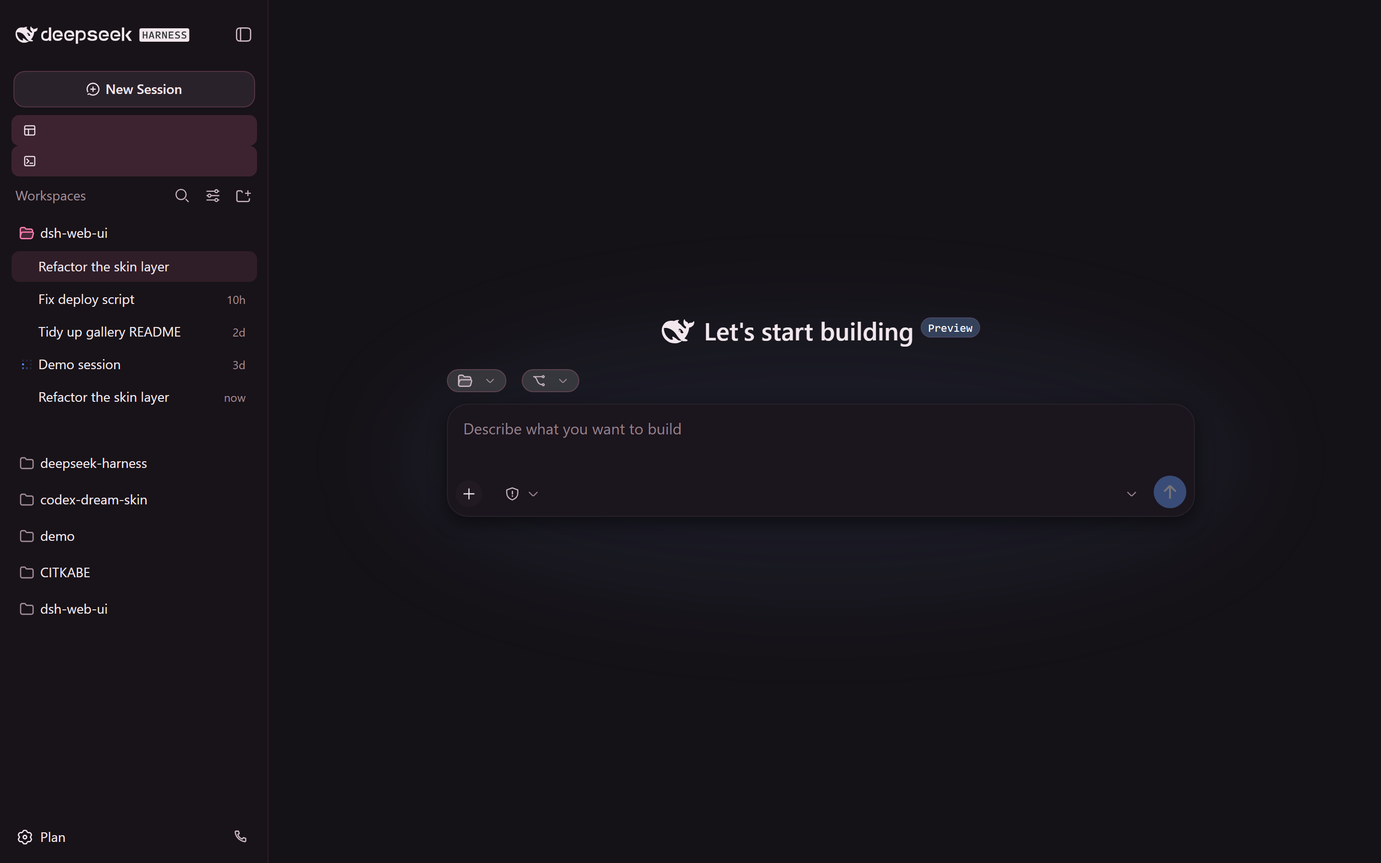
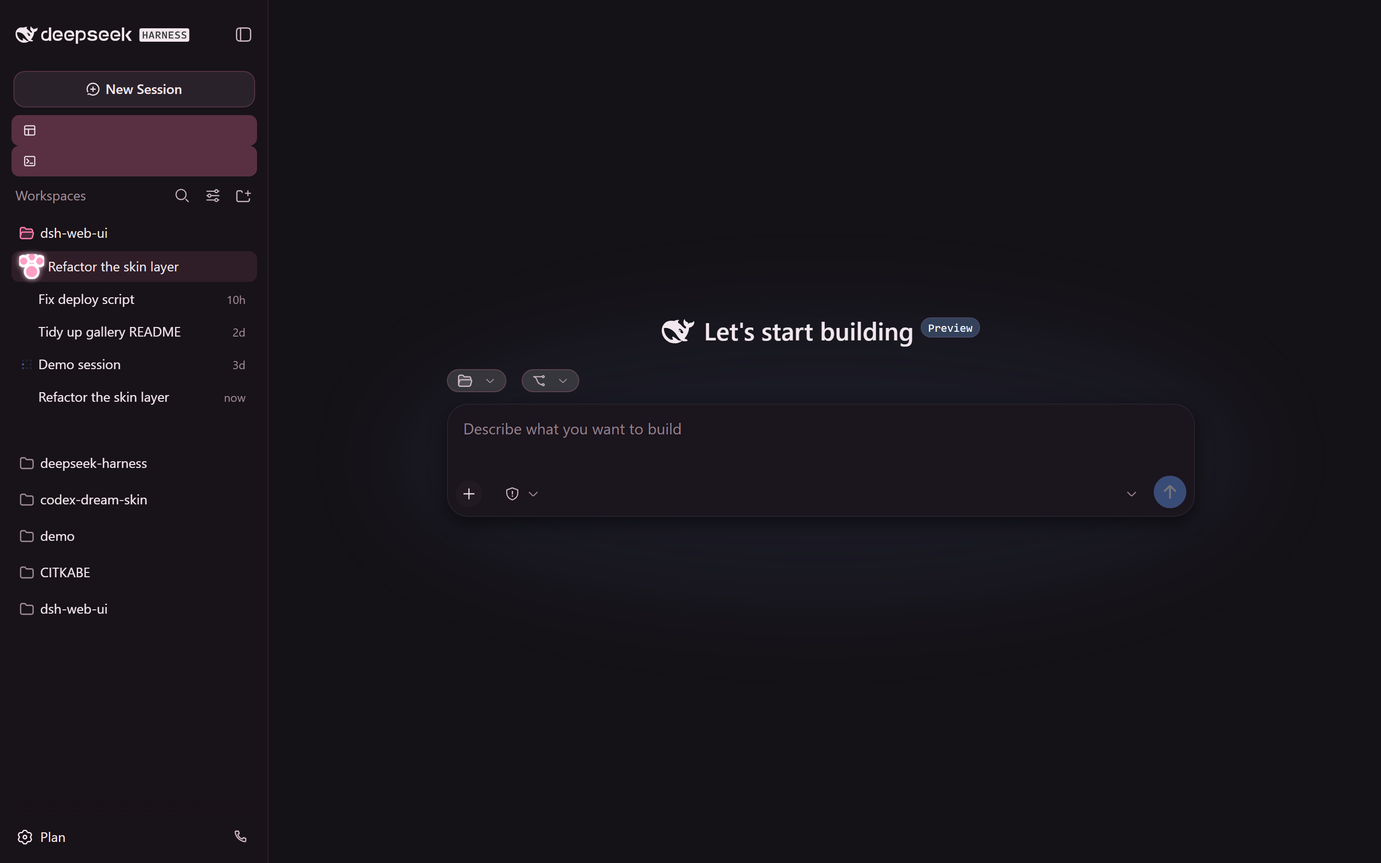
feat(skins): cat-paw selected marker for Pink Sakura sidebar rows
Selected sidebar workspace and session rows now carry an original
code-drawn paw marker (assets/paw.svg: pink fill, deep pink outline)
with a soft pink-white glow and a gentle heartbeat; static under
prefers-reduced-motion. A CSS-gradient paw sits beneath the url() so
the marker also renders where skin-dir assets are not served (the
static gallery preview embeds stylesheets inline). Stable selectors
only: data-pane=sidebar scope plus treeitem/aria-selected hooks, no
hashed class names.

Changed region(s): [[0.0, 0.1244, 0.1875, 0.2178], [0.0, 0.28, 0.125, 0.3422]]

diff --git a/gallery/styles.js b/gallery/styles.js
@@ -68,7 +68,7 @@ window.SKIN_STYLES = {
 		patches: "/**\n * Deep Current structural presentation.\n *\n * This L3 stylesheet intentionally stays small and uses structural data,\n * semantic data, and ARIA anchors only. It contains no CSS-module hash\n * selectors and no layout-changing rules.\n */\n\n[data-pane=\"conversation\"],\n[data-dsh-surface=\"conversation\"] {\n  background-color: var(--deep-current-pearl);\n  background-image:\n    radial-gradient(ellipse 48% 30% at 58% 57%, var(--deep-current-current-band) 0%, transparent 68%),\n    linear-gradient(118deg, transparent 20%, var(--deep-current-current-band) 47%, transparent 74%);\n  background-attachment: local;\n}\n\n[data-composer-seat] {\n  isolation: isolate;\n  position: relative;\n}\n\n[data-composer-seat]::before {\n  content: \"\";\n  z-index: 0;\n  pointer-events: none;\n  background-image: url(\"assets/contour-field.svg\");\n  background-repeat: repeat-x;\n  background-size: 1440px 810px;\n  background-position: 0 50%;\n  position: absolute;\n  inset: -145% -62% -135%;\n  -webkit-mask-image: radial-gradient(ellipse 78% 76% at 58% 53%, #000 0 58%, transparent 93%);\n  mask-image: radial-gradient(ellipse 78% 76% at 58% 53%, #000 0 58%, transparent 93%);\n}\n\n[data-composer-seat]::after {\n  content: \"\";\n  z-index: 0;\n  pointer-events: none;\n  background-image:\n    radial-gradient(ellipse 44% 19% at 66% 57%, color-mix(in srgb, var(--deep-current-blue) 18%, transparent), transparent 72%),\n    linear-gradient(104deg, transparent 18%, var(--deep-current-current-band) 42%, color-mix(in srgb, var(--deep-current-blue) 11%, transparent) 56%, transparent 78%);\n  background-repeat: no-repeat;\n  background-size: 140% 100%, 180% 100%;\n  background-position: -25% 50%, 115% 50%;\n  position: absolute;\n  inset: -110% -44% -105%;\n  -webkit-mask-image: radial-gradient(ellipse 72% 68% at 60% 54%, #000 0 46%, transparent 88%);\n  mask-image: radial-gradient(ellipse 72% 68% at 60% 54%, #000 0 46%, transparent 88%);\n}\n\n@keyframes deep-current-contour-flow {\n  to {\n    background-position: 1440px 50%;\n  }\n}\n\n@keyframes deep-current-glow-flow {\n  to {\n    background-position: 125% 50%, -85% 50%;\n  }\n}\n\n[data-phase=\"hero\"] [data-composer-seat]::before {\n  animation: deep-current-contour-flow 18s linear infinite;\n  will-change: background-position;\n}\n\n[data-phase=\"hero\"] [data-composer-seat]::after {\n  animation: deep-current-glow-flow 11s linear infinite;\n  will-change: background-position;\n}\n\n[data-composer-seat] > * {\n  z-index: 1;\n  position: relative;\n}\n\n[data-pane=\"sidebar\"],\n[data-dsh-surface=\"sidebar\"] {\n  --dsw-alias-bg-base: #0b2a33;\n  --dsw-alias-bg-layer-1: #103640;\n  --dsw-alias-bg-layer-2: #143f49;\n  --dsw-alias-bg-layer-3: #194a54;\n  --dsw-alias-bg-overlay: #103640f5;\n  --dsw-alias-border-l1: #d8f5ee1a;\n  --dsw-alias-border-l2: #d8f5ee29;\n  --dsw-alias-border-l3: #d8f5ee42;\n  --dsw-alias-label-primary: #edf9f6;\n  --dsw-alias-label-primary-bluish: #d7f8ed;\n  --dsw-alias-label-secondary: #bdd8d2;\n  --dsw-alias-label-tertiary: #8cafaa;\n  --dsw-alias-label-dimmed: #6d938d;\n  --dsw-alias-label-caption: #5d837d;\n  --dsw-alias-label-primary-inverted: #0b2a33;\n  --dsw-alias-brand-primary: #63e6be;\n  --dsw-alias-brand-text: #baf7e3;\n  --dsw-alias-interactive-bg-hover: #ffffff0f;\n  --dsw-alias-interactive-bg-active: #63e6be24;\n  --dsw-alias-interactive-bg-hover-solid: #194a54;\n  --dsw-alias-button-elevated-fill: #143f49;\n  --dsw-alias-button-floating-fill: #103640;\n  --dsw-alias-button-floating-hover: #194a54;\n  --dsw-alias-button-info-fill: #143f49;\n  --dsw-alias-button-info-hover: #194a54;\n  --dsw-specific-sidebar-fill: #0b2a33;\n  --dsw-specific-sidebar-nav-item-active: #63e6be24;\n  --dsw-specific-sidebar-nav-item-active-accent: #63e6be;\n  --dsw-specific-sidebar-nav-item-hover: #ffffff0f;\n  color: #edf9f6;\n  background-color: #0b2a33;\n  border-inline-end: 1px solid #d8f5ee1f;\n}\n\n[data-pane=\"sidebar\"] > div {\n  background:\n    radial-gradient(circle at 28px 18%, #63e6be12, transparent 32%),\n    linear-gradient(180deg, #0b2a33 0%, #08242c 100%);\n}\n\nbody[data-ds-dark-theme] [data-pane=\"sidebar\"],\nbody[data-ds-dark-theme] [data-dsh-surface=\"sidebar\"] {\n  --dsw-alias-bg-base: #061820;\n  --dsw-alias-bg-layer-1: #0a222b;\n  --dsw-alias-bg-layer-2: #0e2b35;\n  --dsw-alias-bg-layer-3: #123641;\n  --dsw-alias-label-primary-inverted: #061820;\n  --dsw-specific-sidebar-fill: #061820;\n  background-color: #061820;\n}\n\nbody[data-ds-dark-theme] [data-pane=\"sidebar\"] > div {\n  background:\n    radial-gradient(circle at 28px 18%, #63e6be0f, transparent 34%),\n    linear-gradient(180deg, #061820 0%, #041219 100%);\n}\n\nbody[data-ds-dark-theme] [data-composer-seat]::before {\n  opacity: 0.9;\n  filter: brightness(1.3) saturate(1.12);\n}\n\n/*\n * The official settings dialog portals through the sidebar subtree. Restore\n * the main surface tokens at its semantic boundary so the dark sidebar's\n * light labels never leak onto pearl controls.\n */\n[data-dsh-surface=\"settings\"] {\n  --dsw-alias-bg-base: #f4f8f7;\n  --dsw-alias-bg-layer-1: #fff;\n  --dsw-alias-bg-layer-2: #eaf2f0;\n  --dsw-alias-bg-layer-3: #ddece9;\n  --dsw-alias-bg-overlay: #fffffff2;\n  --dsw-alias-border-l1: #0b2a3314;\n  --dsw-alias-border-l2: #0b2a3329;\n  --dsw-alias-border-l3: #0b2a3340;\n  --dsw-alias-label-primary: #123139;\n  --dsw-alias-label-primary-bluish: #234f77;\n  --dsw-alias-label-secondary: #3e5b61;\n  --dsw-alias-label-tertiary: #6f898a;\n  --dsw-alias-label-dimmed: #91a7a5;\n  --dsw-alias-label-caption: #9eb2af;\n  --dsw-alias-brand-primary: #2d6cdf;\n  --dsw-alias-brand-text: #2058bd;\n  --dsw-alias-interactive-bg-hover: #2d6cdf12;\n  --dsw-alias-interactive-bg-active: #2d6cdf21;\n  --dsw-alias-interactive-bg-hover-solid: #e1eeeb;\n  --dsw-alias-button-elevated-fill: #fff;\n  --dsw-alias-button-floating-fill: #fff;\n  --dsw-alias-button-floating-hover: #edf5f3;\n  --dsw-alias-button-info-fill: #e2ecff;\n  --dsw-alias-button-info-hover: #d5e3ff;\n  color: #123139;\n}\n\nbody[data-ds-dark-theme] [data-dsh-surface=\"settings\"] {\n  --dsw-alias-bg-base: #071a21;\n  --dsw-alias-bg-layer-1: #0c2731;\n  --dsw-alias-bg-layer-2: #123641;\n  --dsw-alias-bg-layer-3: #194650;\n  --dsw-alias-bg-overlay: #0c2731f2;\n  --dsw-alias-border-l1: #bdece31a;\n  --dsw-alias-border-l2: #bdece32e;\n  --dsw-alias-border-l3: #bdece347;\n  --dsw-alias-label-primary: #e9f7f4;\n  --dsw-alias-label-primary-bluish: #cadcff;\n  --dsw-alias-label-secondary: #b3cfca;\n  --dsw-alias-label-tertiary: #7fa49e;\n  --dsw-alias-label-dimmed: #5f8881;\n  --dsw-alias-label-caption: #4f766f;\n  --dsw-alias-brand-primary: #72a2ff;\n  --dsw-alias-brand-text: #bdd1ff;\n  --dsw-alias-interactive-bg-hover: #72a2ff17;\n  --dsw-alias-interactive-bg-active: #72a2ff2b;\n  --dsw-alias-interactive-bg-hover-solid: #194650;\n  --dsw-alias-button-elevated-fill: #123641;\n  --dsw-alias-button-floating-fill: #0c2731;\n  --dsw-alias-button-floating-hover: #194650;\n  --dsw-alias-button-info-fill: #173e5e;\n  --dsw-alias-button-info-hover: #1c4b70;\n  color: #e9f7f4;\n}\n\n[data-pane=\"sidebar\"] :is([aria-selected=\"true\"], [aria-current=\"true\"]):not([data-dsh-surface=\"settings\"] *) {\n  color: #dffff5;\n  background-color: #63e6be24;\n  box-shadow: inset 3px 0 #63e6be;\n}\n\n[data-pane=\"sidebar\"] :is([role=\"treeitem\"], button, a):not([data-dsh-surface=\"settings\"] *):focus-visible,\n[data-dsh-part=\"sidebar-entry\"]:focus-visible {\n  outline: 2px solid #63e6be;\n  outline-offset: 2px;\n}\n\n[data-composer-card=\"true\"],\n[data-dsh-surface=\"composer\"] {\n  background: var(--deep-current-composer);\n  border: 1px solid color-mix(in srgb, var(--deep-current-blue) 20%, var(--deep-current-sea-glass));\n  box-shadow: var(--dsw-shadow-lv2);\n  transition: border-color 160ms ease, box-shadow 160ms ease;\n}\n\n[data-composer-card=\"true\"]:focus-within,\n[data-dsh-surface=\"composer\"]:focus-within {\n  border-color: var(--deep-current-blue);\n  box-shadow: 0 0 0 3px color-mix(in srgb, var(--deep-current-blue) 18%, transparent), var(--dsw-shadow-lv2);\n}\n\ntextarea[data-phase],\n[data-dsh-part=\"composer-input\"] {\n  color: var(--dsw-alias-label-primary);\n  caret-color: var(--deep-current-blue);\n}\n\ntextarea[data-phase]::placeholder {\n  color: var(--dsw-alias-label-dimmed);\n}\n\n[data-dsh-surface=\"session-header\"],\n[data-dsh-part=\"header\"] {\n  font-family: var(--deep-current-display-font);\n  letter-spacing: 0.012em;\n}\n\n[data-dsh-part=\"column\"],\n[data-dsh-part=\"detail\"],\n[data-dsh-part=\"host-table\"],\n[data-dsh-part=\"dialog\"],\n[data-dsh-part=\"plugin-item\"],\n[data-dsh-part=\"marketplace-card\"] {\n  border-color: var(--dsw-alias-border-l2);\n  box-shadow: var(--dsw-shadow-lv1);\n}\n\n@media (max-width: 768px) {\n  [data-pane=\"conversation\"],\n  [data-dsh-surface=\"conversation\"] {\n    background-image:\n      radial-gradient(ellipse 70% 28% at 55% 70%, var(--deep-current-current-band) 0%, transparent 72%);\n  }\n\n  [data-composer-seat]::before {\n    opacity: 0.58;\n    background-size: 1080px 608px;\n    inset: -92% -52% -82%;\n  }\n\n  [data-composer-seat]::after {\n    display: none;\n  }\n\n  [data-phase=\"hero\"] [data-composer-seat]::before {\n    animation-duration: 14s;\n  }\n\n  [data-composer-card=\"true\"],\n  [data-dsh-surface=\"composer\"] {\n    box-shadow: var(--dsw-shadow-lv1-blur);\n  }\n}\n\n@media (prefers-contrast: more) {\n  [data-composer-card=\"true\"],\n  [data-dsh-surface=\"composer\"] {\n    border-color: var(--dsw-alias-label-primary);\n  }\n\n  [data-pane=\"sidebar\"],\n  [data-dsh-surface=\"sidebar\"] {\n    border-inline-end-color: #edf9f66b;\n  }\n}\n\n@media (prefers-reduced-motion: reduce) {\n  [data-phase=\"hero\"] [data-composer-seat]::before,\n  [data-phase=\"hero\"] [data-composer-seat]::after {\n    animation: none;\n    will-change: auto;\n  }\n\n  [data-composer-card=\"true\"],\n  [data-dsh-surface=\"composer\"] {\n    transition: none;\n  }\n}\n",
 	},
 	"pink-sakura": {
-		stylesheet: "/**\n * Pink Sakura - token-first v2 skin.\n *\n * L1 remaps official semantic tokens. L2 selectors only use semantic\n * attributes owned by Skin Center, avoiding generated class names.\n */\n\n/* Light tokens ride both :root and a body-scoped light head: the skin-center\n * loader clones :root theme tokens onto body, but the static gallery preview\n * (gallery/preview.html) injects this stylesheet without that transform, and\n * the official facade defines its light token sheet on body. */\n:root,\nbody:not([data-ds-dark-theme]) {\n  --pink-sakura-accent: #e95c91;\n  --pink-sakura-text: #3b2e36;\n  --pink-sakura-panel: #fff7fa;\n  --pink-sakura-border: #be6e9638;\n\n  --dsw-alias-bg-base: #fff1f6;\n  --dsw-alias-bg-layer-1: #fff8fb;\n  --dsw-alias-bg-layer-2: #fcebf2;\n  --dsw-alias-bg-layer-3: #f6dfe9;\n  --dsw-alias-bg-overlay: #fffffff0;\n  --dsw-alias-bg-skeleton: #e95c9112;\n  --dsw-alias-border-l1: #3c192d0f;\n  --dsw-alias-border-l2: #be6e9638;\n  --dsw-alias-border-l3: #be6e964d;\n  --dsw-alias-border-l4: #be6e9661;\n  --dsw-alias-label-primary: #3b2e36;\n  --dsw-alias-label-secondary: #6e5b65;\n  --dsw-alias-label-tertiary: #7c6a74;\n  --dsw-alias-label-dimmed: #9f8c96;\n  --dsw-alias-label-caption: #8a7680;\n  --dsw-alias-brand-primary: #e95c91;\n  --dsw-alias-brand-text: #c23e6f;\n  --dsw-alias-interactive-bg-hover: #e95c9112;\n  --dsw-alias-interactive-bg-active: #e95c9129;\n  --dsw-alias-state-error-primary: #c92a2a;\n  --dsw-alias-state-warn-primary: #8f5c10;\n  --dsw-alias-state-success-primary: #157a52;\n  --dsw-alias-state-business-primary: #c23e6f;\n  --dsw-alias-button-primary-fill: #e95c91;\n  --dsw-alias-button-primary-hover: #d64b80;\n  --dsw-alias-button-contrast-fill: #3b2a35;\n  --dsw-alias-button-elevated-fill: #fff7fa;\n  --dsw-alias-button-floating-fill: #f9e7ef;\n  --dsw-alias-button-floating-hover: #f4dce7;\n  --dsw-specific-bubble: #fff7fa;\n  --dsw-specific-input-major: #fff9fb;\n  --dsw-specific-menu: #fff8fb;\n  --dsw-specific-selector: #fae9f1;\n  --dsw-specific-sidebar-fill: #f8e4ed;\n  --dsw-specific-sidebar-nav-item-hover: #e95c9126;\n  --dsw-specific-sidebar-nav-item-active: #e95c9138;\n  --dsw-specific-sidebar-nav-item-active-accent: #e95c91;\n  --dsw-alias-tooltip-bg: #4a3944;\n  --dsw-shadow-lv1: 0 1px 2px #3b2e3614;\n  --dsw-shadow-lv2: 0 6px 18px #8d496c1f;\n  --dsw-shadow-lv3: 0 18px 42px #8d496c2b;\n  --dsw-alias-scrollbar-bg-l2: #b4789138;\n  --dsw-alias-scrollbar-hover-l2: #b478915c;\n}\n\nbody[data-ds-dark-theme] {\n  --pink-sakura-accent: #ff7fae;\n  --pink-sakura-text: #f2e7ed;\n  --pink-sakura-panel: #1d181e;\n  --pink-sakura-border: #ff7fae33;\n\n  --dsw-alias-bg-base: #151217;\n  --dsw-alias-bg-layer-1: #1d181e;\n  --dsw-alias-bg-layer-2: #221b23;\n  --dsw-alias-bg-layer-3: #2a222b;\n  --dsw-alias-bg-overlay: #2e2530f2;\n  --dsw-alias-bg-skeleton: #ff7fae12;\n  --dsw-alias-border-l1: #ff7fae1a;\n  --dsw-alias-border-l2: #ff7fae33;\n  --dsw-alias-border-l3: #ff7fae47;\n  --dsw-alias-border-l4: #ff7fae5c;\n  --dsw-alias-label-primary: #f2e7ed;\n  --dsw-alias-label-secondary: #c9b6c1;\n  --dsw-alias-label-tertiary: #a18e9a;\n  --dsw-alias-label-dimmed: #806d77;\n  --dsw-alias-label-caption: #95818d;\n  --dsw-alias-brand-primary: #ff7fae;\n  --dsw-alias-brand-text: #ff9bc0;\n  --dsw-alias-interactive-bg-hover: #ff7fae1a;\n  --dsw-alias-interactive-bg-active: #ff7fae38;\n  --dsw-alias-state-error-primary: #f2616c;\n  --dsw-alias-state-warn-primary: #f5a83b;\n  --dsw-alias-state-success-primary: #3fbf8f;\n  --dsw-alias-state-business-primary: #ff7fae;\n  --dsw-alias-button-primary-fill: #ff4f91;\n  --dsw-alias-button-primary-hover: #ff7fae;\n  --dsw-alias-button-contrast-fill: #f5ecf1;\n  --dsw-alias-button-elevated-fill: #2a222b;\n  --dsw-alias-button-floating-fill: #2a222b;\n  --dsw-alias-button-floating-hover: #332936;\n  --dsw-specific-bubble: #1e171f;\n  --dsw-specific-input-major: #1b151d;\n  --dsw-specific-menu: #251e27;\n  --dsw-specific-selector: #211a23;\n  --dsw-specific-sidebar-fill: #181318;\n  --dsw-specific-sidebar-nav-item-hover: #ff7fae2e;\n  --dsw-specific-sidebar-nav-item-active: #ff7fae47;\n  --dsw-specific-sidebar-nav-item-active-accent: #ff7fae;\n  --dsw-alias-tooltip-bg: #332a36;\n  --dsw-shadow-lv1: 0 1px 2px #00000066;\n  --dsw-shadow-lv2: 0 6px 18px #00000080;\n  --dsw-shadow-lv3: 0 18px 42px #00000099;\n  --dsw-alias-scrollbar-bg-l2: #ff7fae38;\n  --dsw-alias-scrollbar-hover-l2: #ff7fae66;\n}\n\n/* Translucent glass state, only while a backdrop is visible (Wallpaper Engine\n * wallpaper via data-dsh-wallpaper-active, or any backdrop source via the\n * unified data-dsh-backdrop-active marker: manual backgrounds included).\n * Opaque by default; the glass treatment below rides on these tokens. */\nbody:is([data-dsh-backdrop-active], [data-dsh-wallpaper-active]) {\n  --dsw-alias-bg-base: #faf4f78a;\n  --dsw-alias-bg-layer-1: #fffafcb8;\n  --dsw-alias-bg-layer-2: #fdf1f6ad;\n  --dsw-alias-bg-layer-3: #f7e7efa3;\n  --dsw-specific-sidebar-fill: #f4e9efb3;\n}\n\nbody[data-ds-dark-theme]:is([data-dsh-backdrop-active], [data-dsh-wallpaper-active]) {\n  --dsw-alias-bg-base: #1512178f;\n  --dsw-alias-bg-layer-1: #1d181ebd;\n  --dsw-alias-bg-layer-2: #221b23b3;\n  --dsw-alias-bg-layer-3: #2a222bad;\n  --dsw-specific-sidebar-fill: #181318bd;\n}\n\n/* Frosted-glass surfaces while a backdrop is visible: frosted blur with a\n * saturated lift, inner top highlight, hairline ring. Surfaces stay fully\n * opaque and flat when no backdrop is active (the restrained default). */\nbody:is([data-dsh-backdrop-active], [data-dsh-wallpaper-active]) [data-dsh-surface=\"composer\"],\nbody:is([data-dsh-backdrop-active], [data-dsh-wallpaper-active]) [data-dsh-surface=\"settings\"],\nbody:is([data-dsh-backdrop-active], [data-dsh-wallpaper-active]) [data-dsh-part=\"dialog\"],\nbody:is([data-dsh-backdrop-active], [data-dsh-wallpaper-active]) [data-dsh-part=\"panel\"],\nbody:is([data-dsh-backdrop-active], [data-dsh-wallpaper-active]) [data-dsh-plugin=\"pet\"] [data-dsh-part=\"bubble\"] {\n  -webkit-backdrop-filter: blur(22px) saturate(140%);\n  backdrop-filter: blur(22px) saturate(140%);\n  box-shadow:\n    inset 0 1px 0 rgba(255, 255, 255, 0.22),\n    inset 0 0 0 1px rgba(255, 255, 255, 0.06),\n    var(--dsw-shadow-lv2);\n  background-image: linear-gradient(180deg, rgba(255, 255, 255, 0.09) 0%, rgba(255, 255, 255, 0.02) 24%, rgba(255, 255, 255, 0) 48%);\n}\n\nbody[data-ds-dark-theme]:is([data-dsh-backdrop-active], [data-dsh-wallpaper-active]) [data-dsh-surface=\"composer\"],\nbody[data-ds-dark-theme]:is([data-dsh-backdrop-active], [data-dsh-wallpaper-active]) [data-dsh-surface=\"settings\"],\nbody[data-ds-dark-theme]:is([data-dsh-backdrop-active], [data-dsh-wallpaper-active]) [data-dsh-part=\"dialog\"],\nbody[data-ds-dark-theme]:is([data-dsh-backdrop-active], [data-dsh-wallpaper-active]) [data-dsh-part=\"panel\"],\nbody[data-ds-dark-theme]:is([data-dsh-backdrop-active], [data-dsh-wallpaper-active]) [data-dsh-plugin=\"pet\"] [data-dsh-part=\"bubble\"] {\n  -webkit-backdrop-filter: blur(24px) saturate(130%);\n  backdrop-filter: blur(24px) saturate(130%);\n  box-shadow:\n    inset 0 1px 0 rgba(255, 159, 190, 0.16),\n    inset 0 0 0 1px rgba(255, 159, 190, 0.05),\n    var(--dsw-shadow-lv2);\n  background-image: linear-gradient(180deg, rgba(255, 159, 190, 0.07) 0%, rgba(255, 159, 190, 0.02) 24%, rgba(255, 159, 190, 0) 48%);\n}\n\n/* Fallback when backdrop-filter is unsupported: lean on the translucent\n * token fills only, with a slightly stronger veil for readability. */\n@supports not ((backdrop-filter: blur(1px)) or (-webkit-backdrop-filter: blur(1px))) {\n  body:is([data-dsh-backdrop-active], [data-dsh-wallpaper-active]) {\n    --dsw-alias-bg-base: #faf4f7c4;\n    --dsw-alias-bg-layer-1: #fffafcd9;\n    --dsw-alias-bg-layer-2: #fdf1f6d0;\n    --dsw-alias-bg-layer-3: #f7e7efc4;\n  }\n\n  body[data-ds-dark-theme]:is([data-dsh-backdrop-active], [data-dsh-wallpaper-active]) {\n    --dsw-alias-bg-base: #151217bd;\n    --dsw-alias-bg-layer-1: #1d181ed6;\n    --dsw-alias-bg-layer-2: #221b23d0;\n    --dsw-alias-bg-layer-3: #2a222bc4;\n  }\n}\n\n[data-dsh-surface=\"composer\"],\n[data-dsh-surface=\"settings\"],\n[data-dsh-part=\"dialog\"],\n[data-dsh-part=\"panel\"] {\n  border-color: var(--pink-sakura-border);\n  box-shadow: var(--dsw-shadow-lv2);\n}\n\n[data-dsh-plugin=\"task-board\"] [data-dsh-part=\"column\"],\n[data-dsh-plugin=\"task-board\"] [data-dsh-part=\"card\"],\n[data-dsh-plugin=\"web-ui-settings\"] [data-dsh-part=\"plugin-item\"],\n[data-dsh-plugin=\"community-plugins\"] [data-dsh-part=\"marketplace-card\"] {\n  background: var(--pink-sakura-panel);\n  border-color: var(--pink-sakura-border);\n  transition: transform 160ms ease, box-shadow 180ms ease, border-color 180ms ease;\n}\n\n[data-dsh-plugin=\"task-board\"] [data-dsh-part=\"card\"]:hover,\n[data-dsh-plugin=\"web-ui-settings\"] [data-dsh-part=\"plugin-item\"]:hover,\n[data-dsh-plugin=\"community-plugins\"] [data-dsh-part=\"marketplace-card\"]:hover {\n  border-color: var(--pink-sakura-accent);\n  box-shadow: var(--dsw-shadow-lv2);\n  transform: translateY(-1px);\n}\n\n[data-dsh-plugin=\"git-graph\"] [data-dsh-part=\"chip\"],\n[data-dsh-plugin=\"git-graph\"] [data-dsh-part=\"ref\"],\n[data-dsh-plugin=\"ssh\"] [data-dsh-part=\"tab\"] {\n  border-color: var(--pink-sakura-border);\n}\n\n[data-dsh-plugin=\"ssh\"] [data-dsh-part=\"terminal\"] {\n  background: #181419;\n  color: #f2e7ed;\n}\n\n[data-dsh-plugin=\"pet\"] [data-dsh-part=\"bubble\"] {\n  background: var(--pink-sakura-panel);\n  border: 1px solid var(--pink-sakura-border);\n  color: var(--pink-sakura-text);\n  box-shadow: var(--dsw-shadow-lv2);\n}\n\n@media (prefers-reduced-motion: reduce) {\n  [data-dsh-plugin] [data-dsh-part] {\n    transition: none;\n  }\n}\n",
+		stylesheet: "/**\n * Pink Sakura - token-first v2 skin.\n *\n * L1 remaps official semantic tokens. L2 selectors only use semantic\n * attributes owned by Skin Center, avoiding generated class names.\n */\n\n/* Light tokens ride both :root and a body-scoped light head: the skin-center\n * loader clones :root theme tokens onto body, but the static gallery preview\n * (gallery/preview.html) injects this stylesheet without that transform, and\n * the official facade defines its light token sheet on body. */\n:root,\nbody:not([data-ds-dark-theme]) {\n  --pink-sakura-accent: #e95c91;\n  --pink-sakura-text: #3b2e36;\n  --pink-sakura-panel: #fff7fa;\n  --pink-sakura-border: #be6e9638;\n\n  --dsw-alias-bg-base: #fff1f6;\n  --dsw-alias-bg-layer-1: #fff8fb;\n  --dsw-alias-bg-layer-2: #fcebf2;\n  --dsw-alias-bg-layer-3: #f6dfe9;\n  --dsw-alias-bg-overlay: #fffffff0;\n  --dsw-alias-bg-skeleton: #e95c9112;\n  --dsw-alias-border-l1: #3c192d0f;\n  --dsw-alias-border-l2: #be6e9638;\n  --dsw-alias-border-l3: #be6e964d;\n  --dsw-alias-border-l4: #be6e9661;\n  --dsw-alias-label-primary: #3b2e36;\n  --dsw-alias-label-secondary: #6e5b65;\n  --dsw-alias-label-tertiary: #7c6a74;\n  --dsw-alias-label-dimmed: #9f8c96;\n  --dsw-alias-label-caption: #8a7680;\n  --dsw-alias-brand-primary: #e95c91;\n  --dsw-alias-brand-text: #c23e6f;\n  --dsw-alias-interactive-bg-hover: #e95c9112;\n  --dsw-alias-interactive-bg-active: #e95c9129;\n  --dsw-alias-state-error-primary: #c92a2a;\n  --dsw-alias-state-warn-primary: #8f5c10;\n  --dsw-alias-state-success-primary: #157a52;\n  --dsw-alias-state-business-primary: #c23e6f;\n  --dsw-alias-button-primary-fill: #e95c91;\n  --dsw-alias-button-primary-hover: #d64b80;\n  --dsw-alias-button-contrast-fill: #3b2a35;\n  --dsw-alias-button-elevated-fill: #fff7fa;\n  --dsw-alias-button-floating-fill: #f9e7ef;\n  --dsw-alias-button-floating-hover: #f4dce7;\n  --dsw-specific-bubble: #fff7fa;\n  --dsw-specific-input-major: #fff9fb;\n  --dsw-specific-menu: #fff8fb;\n  --dsw-specific-selector: #fae9f1;\n  --dsw-specific-sidebar-fill: #f8e4ed;\n  --dsw-specific-sidebar-nav-item-hover: #e95c9126;\n  --dsw-specific-sidebar-nav-item-active: #e95c9138;\n  --dsw-specific-sidebar-nav-item-active-accent: #e95c91;\n  --dsw-alias-tooltip-bg: #4a3944;\n  --dsw-shadow-lv1: 0 1px 2px #3b2e3614;\n  --dsw-shadow-lv2: 0 6px 18px #8d496c1f;\n  --dsw-shadow-lv3: 0 18px 42px #8d496c2b;\n  --dsw-alias-scrollbar-bg-l2: #b4789138;\n  --dsw-alias-scrollbar-hover-l2: #b478915c;\n}\n\nbody[data-ds-dark-theme] {\n  --pink-sakura-accent: #ff7fae;\n  --pink-sakura-text: #f2e7ed;\n  --pink-sakura-panel: #1d181e;\n  --pink-sakura-border: #ff7fae33;\n\n  --dsw-alias-bg-base: #151217;\n  --dsw-alias-bg-layer-1: #1d181e;\n  --dsw-alias-bg-layer-2: #221b23;\n  --dsw-alias-bg-layer-3: #2a222b;\n  --dsw-alias-bg-overlay: #2e2530f2;\n  --dsw-alias-bg-skeleton: #ff7fae12;\n  --dsw-alias-border-l1: #ff7fae1a;\n  --dsw-alias-border-l2: #ff7fae33;\n  --dsw-alias-border-l3: #ff7fae47;\n  --dsw-alias-border-l4: #ff7fae5c;\n  --dsw-alias-label-primary: #f2e7ed;\n  --dsw-alias-label-secondary: #c9b6c1;\n  --dsw-alias-label-tertiary: #a18e9a;\n  --dsw-alias-label-dimmed: #806d77;\n  --dsw-alias-label-caption: #95818d;\n  --dsw-alias-brand-primary: #ff7fae;\n  --dsw-alias-brand-text: #ff9bc0;\n  --dsw-alias-interactive-bg-hover: #ff7fae1a;\n  --dsw-alias-interactive-bg-active: #ff7fae38;\n  --dsw-alias-state-error-primary: #f2616c;\n  --dsw-alias-state-warn-primary: #f5a83b;\n  --dsw-alias-state-success-primary: #3fbf8f;\n  --dsw-alias-state-business-primary: #ff7fae;\n  --dsw-alias-button-primary-fill: #ff4f91;\n  --dsw-alias-button-primary-hover: #ff7fae;\n  --dsw-alias-button-contrast-fill: #f5ecf1;\n  --dsw-alias-button-elevated-fill: #2a222b;\n  --dsw-alias-button-floating-fill: #2a222b;\n  --dsw-alias-button-floating-hover: #332936;\n  --dsw-specific-bubble: #1e171f;\n  --dsw-specific-input-major: #1b151d;\n  --dsw-specific-menu: #251e27;\n  --dsw-specific-selector: #211a23;\n  --dsw-specific-sidebar-fill: #181318;\n  --dsw-specific-sidebar-nav-item-hover: #ff7fae2e;\n  --dsw-specific-sidebar-nav-item-active: #ff7fae47;\n  --dsw-specific-sidebar-nav-item-active-accent: #ff7fae;\n  --dsw-alias-tooltip-bg: #332a36;\n  --dsw-shadow-lv1: 0 1px 2px #00000066;\n  --dsw-shadow-lv2: 0 6px 18px #00000080;\n  --dsw-shadow-lv3: 0 18px 42px #00000099;\n  --dsw-alias-scrollbar-bg-l2: #ff7fae38;\n  --dsw-alias-scrollbar-hover-l2: #ff7fae66;\n}\n\n/* Translucent glass state, only while a backdrop is visible (Wallpaper Engine\n * wallpaper via data-dsh-wallpaper-active, or any backdrop source via the\n * unified data-dsh-backdrop-active marker: manual backgrounds included).\n * Opaque by default; the glass treatment below rides on these tokens. */\nbody:is([data-dsh-backdrop-active], [data-dsh-wallpaper-active]) {\n  --dsw-alias-bg-base: #faf4f78a;\n  --dsw-alias-bg-layer-1: #fffafcb8;\n  --dsw-alias-bg-layer-2: #fdf1f6ad;\n  --dsw-alias-bg-layer-3: #f7e7efa3;\n  --dsw-specific-sidebar-fill: #f4e9efb3;\n}\n\nbody[data-ds-dark-theme]:is([data-dsh-backdrop-active], [data-dsh-wallpaper-active]) {\n  --dsw-alias-bg-base: #1512178f;\n  --dsw-alias-bg-layer-1: #1d181ebd;\n  --dsw-alias-bg-layer-2: #221b23b3;\n  --dsw-alias-bg-layer-3: #2a222bad;\n  --dsw-specific-sidebar-fill: #181318bd;\n}\n\n/* Frosted-glass surfaces while a backdrop is visible: frosted blur with a\n * saturated lift, inner top highlight, hairline ring. Surfaces stay fully\n * opaque and flat when no backdrop is active (the restrained default). */\nbody:is([data-dsh-backdrop-active], [data-dsh-wallpaper-active]) [data-dsh-surface=\"composer\"],\nbody:is([data-dsh-backdrop-active], [data-dsh-wallpaper-active]) [data-dsh-surface=\"settings\"],\nbody:is([data-dsh-backdrop-active], [data-dsh-wallpaper-active]) [data-dsh-part=\"dialog\"],\nbody:is([data-dsh-backdrop-active], [data-dsh-wallpaper-active]) [data-dsh-part=\"panel\"],\nbody:is([data-dsh-backdrop-active], [data-dsh-wallpaper-active]) [data-dsh-plugin=\"pet\"] [data-dsh-part=\"bubble\"] {\n  -webkit-backdrop-filter: blur(22px) saturate(140%);\n  backdrop-filter: blur(22px) saturate(140%);\n  box-shadow:\n    inset 0 1px 0 rgba(255, 255, 255, 0.22),\n    inset 0 0 0 1px rgba(255, 255, 255, 0.06),\n    var(--dsw-shadow-lv2);\n  background-image: linear-gradient(180deg, rgba(255, 255, 255, 0.09) 0%, rgba(255, 255, 255, 0.02) 24%, rgba(255, 255, 255, 0) 48%);\n}\n\nbody[data-ds-dark-theme]:is([data-dsh-backdrop-active], [data-dsh-wallpaper-active]) [data-dsh-surface=\"composer\"],\nbody[data-ds-dark-theme]:is([data-dsh-backdrop-active], [data-dsh-wallpaper-active]) [data-dsh-surface=\"settings\"],\nbody[data-ds-dark-theme]:is([data-dsh-backdrop-active], [data-dsh-wallpaper-active]) [data-dsh-part=\"dialog\"],\nbody[data-ds-dark-theme]:is([data-dsh-backdrop-active], [data-dsh-wallpaper-active]) [data-dsh-part=\"panel\"],\nbody[data-ds-dark-theme]:is([data-dsh-backdrop-active], [data-dsh-wallpaper-active]) [data-dsh-plugin=\"pet\"] [data-dsh-part=\"bubble\"] {\n  -webkit-backdrop-filter: blur(24px) saturate(130%);\n  backdrop-filter: blur(24px) saturate(130%);\n  box-shadow:\n    inset 0 1px 0 rgba(255, 159, 190, 0.16),\n    inset 0 0 0 1px rgba(255, 159, 190, 0.05),\n    var(--dsw-shadow-lv2);\n  background-image: linear-gradient(180deg, rgba(255, 159, 190, 0.07) 0%, rgba(255, 159, 190, 0.02) 24%, rgba(255, 159, 190, 0) 48%);\n}\n\n/* Fallback when backdrop-filter is unsupported: lean on the translucent\n * token fills only, with a slightly stronger veil for readability. */\n@supports not ((backdrop-filter: blur(1px)) or (-webkit-backdrop-filter: blur(1px))) {\n  body:is([data-dsh-backdrop-active], [data-dsh-wallpaper-active]) {\n    --dsw-alias-bg-base: #faf4f7c4;\n    --dsw-alias-bg-layer-1: #fffafcd9;\n    --dsw-alias-bg-layer-2: #fdf1f6d0;\n    --dsw-alias-bg-layer-3: #f7e7efc4;\n  }\n\n  body[data-ds-dark-theme]:is([data-dsh-backdrop-active], [data-dsh-wallpaper-active]) {\n    --dsw-alias-bg-base: #151217bd;\n    --dsw-alias-bg-layer-1: #1d181ed6;\n    --dsw-alias-bg-layer-2: #221b23d0;\n    --dsw-alias-bg-layer-3: #2a222bc4;\n  }\n}\n\n[data-dsh-surface=\"composer\"],\n[data-dsh-surface=\"settings\"],\n[data-dsh-part=\"dialog\"],\n[data-dsh-part=\"panel\"] {\n  border-color: var(--pink-sakura-border);\n  box-shadow: var(--dsw-shadow-lv2);\n}\n\n[data-dsh-plugin=\"task-board\"] [data-dsh-part=\"column\"],\n[data-dsh-plugin=\"task-board\"] [data-dsh-part=\"card\"],\n[data-dsh-plugin=\"web-ui-settings\"] [data-dsh-part=\"plugin-item\"],\n[data-dsh-plugin=\"community-plugins\"] [data-dsh-part=\"marketplace-card\"] {\n  background: var(--pink-sakura-panel);\n  border-color: var(--pink-sakura-border);\n  transition: transform 160ms ease, box-shadow 180ms ease, border-color 180ms ease;\n}\n\n[data-dsh-plugin=\"task-board\"] [data-dsh-part=\"card\"]:hover,\n[data-dsh-plugin=\"web-ui-settings\"] [data-dsh-part=\"plugin-item\"]:hover,\n[data-dsh-plugin=\"community-plugins\"] [data-dsh-part=\"marketplace-card\"]:hover {\n  border-color: var(--pink-sakura-accent);\n  box-shadow: var(--dsw-shadow-lv2);\n  transform: translateY(-1px);\n}\n\n[data-dsh-plugin=\"git-graph\"] [data-dsh-part=\"chip\"],\n[data-dsh-plugin=\"git-graph\"] [data-dsh-part=\"ref\"],\n[data-dsh-plugin=\"ssh\"] [data-dsh-part=\"tab\"] {\n  border-color: var(--pink-sakura-border);\n}\n\n[data-dsh-plugin=\"ssh\"] [data-dsh-part=\"terminal\"] {\n  background: #181419;\n  color: #f2e7ed;\n}\n\n[data-dsh-plugin=\"pet\"] [data-dsh-part=\"bubble\"] {\n  background: var(--pink-sakura-panel);\n  border: 1px solid var(--pink-sakura-border);\n  color: var(--pink-sakura-text);\n  box-shadow: var(--dsw-shadow-lv2);\n}\n\n/* Cat-paw selected marker on sidebar tree rows (workspaces and sessions):\n * the shell's marker slot carries an original code-drawn asset (pink fill,\n * deep pink outline; see assets/paw.svg) with a soft pink-white glow and a\n * gentle heartbeat. The CSS-gradient paw beneath the url() keeps the marker\n * visible where skin-dir assets are not served (the static gallery preview\n * embeds stylesheets inline, so the relative url cannot resolve there).\n * Static selectors only - stable data-pane / treeitem / aria-selected hooks,\n * no hashed class names. */\n[data-pane=\"sidebar\"] [role=\"treeitem\"][aria-selected=\"true\"] > span:first-of-type {\n  display: inline-block;\n  width: 26px;\n  height: 26px;\n  background-image:\n    url(\"assets/paw.svg\"),\n    radial-gradient(circle at 50% 70%, #ff9ec4 0 25%, #ffffff 27% 36%, transparent 38%),\n    radial-gradient(circle at 18% 28%, #ff9ec4 0 12%, #ffffff 14% 22%, transparent 24%),\n    radial-gradient(circle at 50% 12%, #ff9ec4 0 12%, #ffffff 14% 22%, transparent 24%),\n    radial-gradient(circle at 82% 28%, #ff9ec4 0 12%, #ffffff 14% 22%, transparent 24%);\n  background-size: contain, 26px 26px, 26px 26px, 26px 26px, 26px 26px;\n  background-repeat: no-repeat;\n  background-position: center;\n  filter: drop-shadow(0 0 3px rgba(255, 214, 232, 0.9));\n  animation: pink-sakura-paw-heartbeat 2.8s ease-in-out infinite;\n}\n\n@keyframes pink-sakura-paw-heartbeat {\n  0%, 100% { transform: scale(1); }\n  8% { transform: scale(1.18); }\n  16% { transform: scale(1); }\n  24% { transform: scale(1.12); }\n  32% { transform: scale(1); }\n}\n\n@media (prefers-reduced-motion: reduce) {\n  [data-dsh-plugin] [data-dsh-part] {\n    transition: none;\n  }\n\n  [data-pane=\"sidebar\"] [role=\"treeitem\"][aria-selected=\"true\"] > span:first-of-type {\n    animation: none;\n  }\n}\n",
 		patches: null,
 	},
 	"wallpaper-exclusive": {

diff --git a/packages/skins/skin-center/skins/pink-sakura/skin.css b/packages/skins/skin-center/skins/pink-sakura/skin.css
@@ -224,8 +224,45 @@ body[data-ds-dark-theme]:is([data-dsh-backdrop-active], [data-dsh-wallpaper-acti
   box-shadow: var(--dsw-shadow-lv2);
 }
 
+/* Cat-paw selected marker on sidebar tree rows (workspaces and sessions):
+ * the shell's marker slot carries an original code-drawn asset (pink fill,
+ * deep pink outline; see assets/paw.svg) with a soft pink-white glow and a
+ * gentle heartbeat. The CSS-gradient paw beneath the url() keeps the marker
+ * visible where skin-dir assets are not served (the static gallery preview
+ * embeds stylesheets inline, so the relative url cannot resolve there).
+ * Static selectors only - stable data-pane / treeitem / aria-selected hooks,
+ * no hashed class names. */
+[data-pane="sidebar"] [role="treeitem"][aria-selected="true"] > span:first-of-type {
+  display: inline-block;
+  width: 26px;
+  height: 26px;
+  background-image:
+    url("assets/paw.svg"),
+    radial-gradient(circle at 50% 70%, #ff9ec4 0 25%, #ffffff 27% 36%, transparent 38%),
+    radial-gradient(circle at 18% 28%, #ff9ec4 0 12%, #ffffff 14% 22%, transparent 24%),
+    radial-gradient(circle at 50% 12%, #ff9ec4 0 12%, #ffffff 14% 22%, transparent 24%),
+    radial-gradient(circle at 82% 28%, #ff9ec4 0 12%, #ffffff 14% 22%, transparent 24%);
+  background-size: contain, 26px 26px, 26px 26px, 26px 26px, 26px 26px;
+  background-repeat: no-repeat;
+  background-position: center;
+  filter: drop-shadow(0 0 3px rgba(255, 214, 232, 0.9));
+  animation: pink-sakura-paw-heartbeat 2.8s ease-in-out infinite;
+}
+
+@keyframes pink-sakura-paw-heartbeat {
+  0%, 100% { transform: scale(1); }
+  8% { transform: scale(1.18); }
+  16% { transform: scale(1); }
+  24% { transform: scale(1.12); }
+  32% { transform: scale(1); }
+}
+
 @media (prefers-reduced-motion: reduce) {
   [data-dsh-plugin] [data-dsh-part] {
     transition: none;
+  }
+
+  [data-pane="sidebar"] [role="treeitem"][aria-selected="true"] > span:first-of-type {
+    animation: none;
   }
 }

diff --git a/packages/skins/skin-center/skins/pink-sakura/README.zh.md b/packages/skins/skin-center/skins/pink-sakura/README.zh.md
@@ -14,6 +14,7 @@
   `html[data-dsh-skin="pink-sakura"]`。
 - **插件覆盖**：使用稳定语义属性适配任务看板、Git 图谱、SSH、设置卡、社区插件市场与鲸鱼娘气泡。
 - **壁纸兼容**：内置 Wallpaper Engine 桥接启用时，面板自动转为半透明，但不携带或再分发任何壁纸资源。
+- **猫爪选中标记**：侧栏选中的工作区 / 会话行使用原创代码绘制的猫爪图标（`assets/paw.svg`，粉底深粉描边 + 白粉光晕 + 心跳动画；`prefers-reduced-motion` 时静止）。
 - **玻璃态**：任何背景可见时（Wallpaper Engine 壁纸或用户手动背景，经统一 `data-dsh-backdrop-active` 标记），编写器、设置、对话框、面板与宠物气泡呈现磨砂玻璃效果（`backdrop-filter` 模糊 + 饱和提升 + 内侧高光）；不支持 `backdrop-filter` 的环境自动回退为更实的半透明遮罩，无背景时保持不透明的克制默认。
 
 ## 预览

diff --git a/packages/skins/skin-center/skins/pink-sakura/README.md b/packages/skins/skin-center/skins/pink-sakura/README.md
@@ -16,6 +16,7 @@ shipped as a pure asset directory inside the Skin Center package.
   SSH, settings cards, community marketplace, and pet bubble.
 - **Wallpaper-ready**: panels become translucent while the built-in Wallpaper
   Engine bridge is active, without shipping or redistributing wallpaper media.
+- **Cat-paw selected marker**: selected sidebar workspace / session rows carry an original code-drawn paw icon (`assets/paw.svg`, pink fill with a deep pink outline, soft glow, heartbeat animation; static under `prefers-reduced-motion`).
 - **Frosted glass**: whenever a backdrop is visible (Wallpaper Engine wallpaper
   or a user manual background, via the unified `data-dsh-backdrop-active`
   marker), the composer, settings, dialogs, panels, and pet bubble get a
